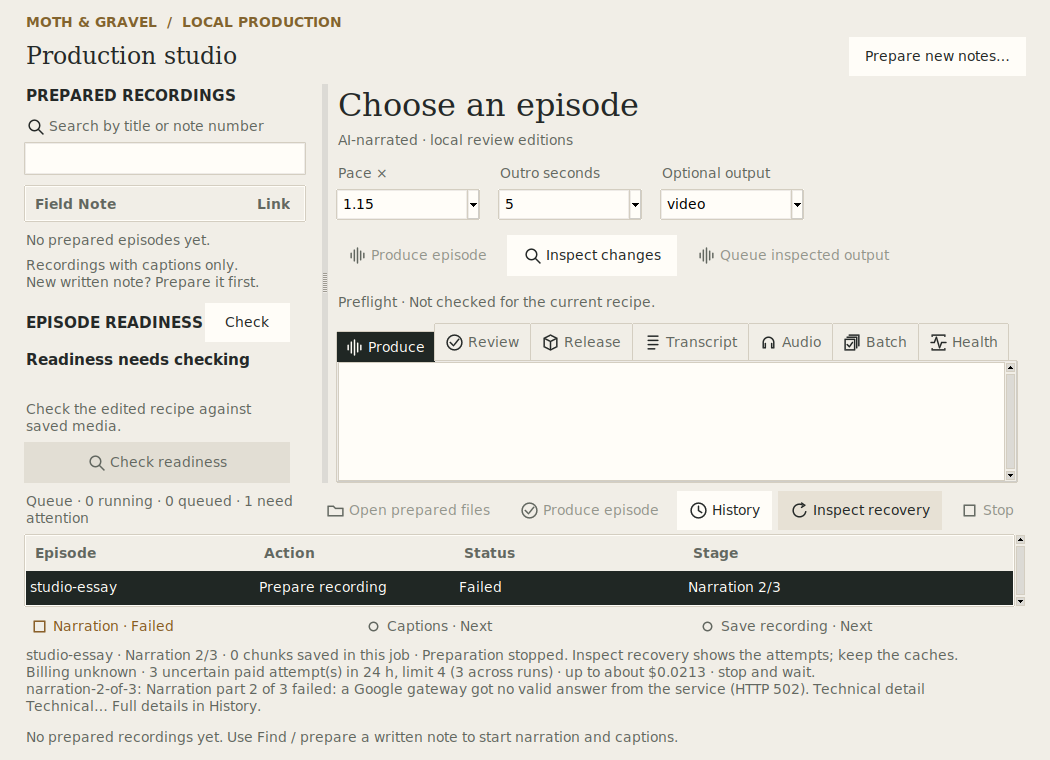
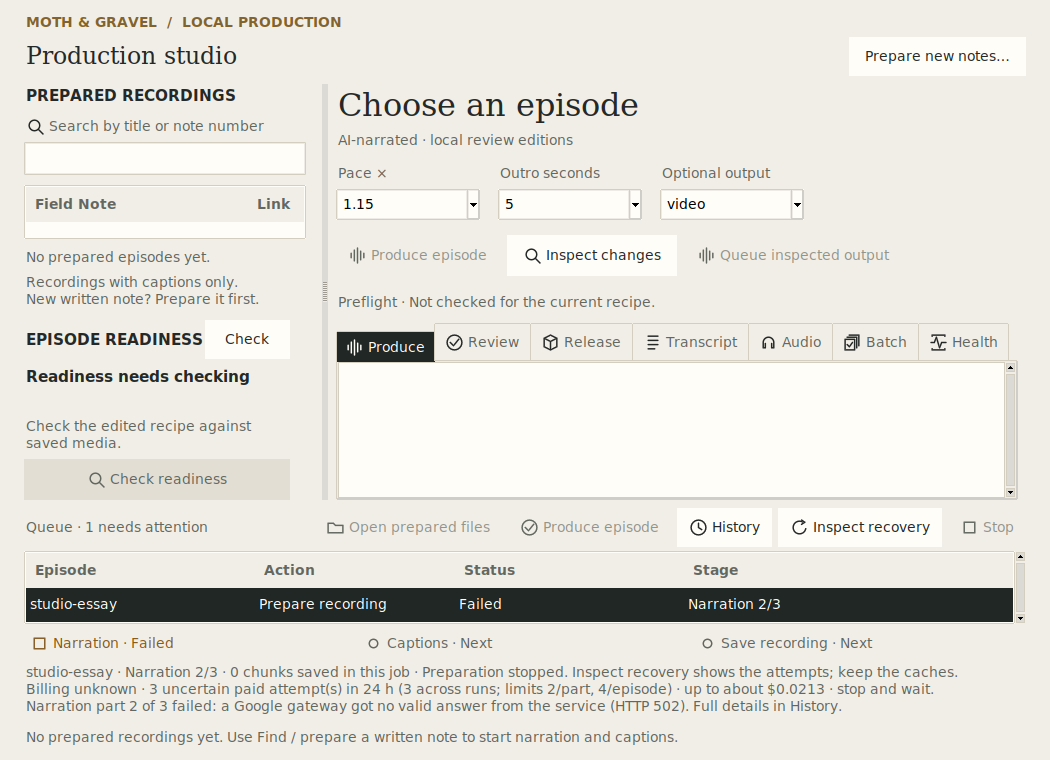
Re-shoot before/after in the same fixture state (main 80eccf9 vs eb062a9)
Both trees ran studio-incident-guard/same-state/capture.py: note 104 fails
chunk 2 with a mocked HTTP 502 twice (the second an authorized recovery), then
the main window and the Prepare window are captured. No Cloud calls.

Changed region(s): [[0.0, 0.3026, 0.9752, 0.9382]]

diff --git a/studio-incident-guard/same-state/capture.py b/studio-incident-guard/same-state/capture.py
@@ -1,0 +1,109 @@
+"""Same fixture state on both trees: run from a checkout root with STUDIO_SCREENSHOT_DIR set.
+
+Mocked Cloud only: two narration chunks of note 104 fail with HTTP 502 across two runs
+(the second an explicitly authorized recovery), then the windows are captured.
+"""
+import io
+import json
+import os
+import sys
+import unittest
+from pathlib import Path
+from unittest.mock import patch
+from urllib.error import HTTPError
+
+sys.path.insert(0, os.getcwd())
+
+from field_notes_studio.preparation_service import PreparationService  # noqa: E402
+from field_notes_studio.worker import execute  # noqa: E402
+from tests.studio import test_preparation_app as app_fixtures  # noqa: E402
+from tests.studio import test_preparation_execution as media_fixtures  # noqa: E402
+from tests.studio import test_ui as ui_fixtures  # noqa: E402
+
+
+def gateway():
+    body = b'{"error": {"status": "UNAVAILABLE", "message": "upstream connect error"}}'
+    return HTTPError("https://service.invalid", 502, "Bad Gateway", {}, io.BytesIO(body))
+
+
+def grab(window, name, geometry):
+    import subprocess
+
+    window.geometry(geometry + "+0+0")
+    window.lift()
+    for _ in range(20):
+        window.update()
+    out = Path(os.environ["STUDIO_SCREENSHOT_DIR"])
+    out.mkdir(parents=True, exist_ok=True)
+    subprocess.run(
+        ["ffmpeg", "-v", "error", "-f", "x11grab", "-draw_mouse", "0",
+         "-video_size", f"{window.winfo_width()}x{window.winfo_height()}",
+         "-i", f"{os.environ['DISPLAY']}+{window.winfo_rootx()},{window.winfo_rooty()}",
+         "-frames:v", "1", "-update", "1", "-y", str(out / f"{name}.png")],
+        check=True, timeout=15,
+    )
+
+
+class Capture(unittest.TestCase):
+    def test_readiness_card(self):
+        h = ui_fixtures.UITests()
+        h.setUp()
+        self.addCleanup(h.doCleanups)
+        h.root.geometry("1050x760+0+0")
+        h.app.controller.episode_controls.refresh()
+        card = h.app.readiness
+        h.wait(lambda: card.snapshot is not None)
+        h.capture("1-readiness-card")
+        if hasattr(card, "details_button"):
+            card.details_button.invoke()
+            h.capture("1b-readiness-card-details")
+
+    def test_failure_row_and_recovery(self):
+        media_fixtures.PreparationExecutionTests.setUpClass()
+        h = app_fixtures.PreparationApplicationTests()
+        h.setUp()
+        self.addCleanup(h.doCleanups)
+        f, app = h.fixture, h.app
+        f.text(
+            "audio/scripts/window.txt",
+            "\n\n".join(w + " " + "Hello world. " * 160 for w in ("One.", "Two.", "Three.")),
+        )
+        request = json.loads(f.adapter.inspect("104").request_json)
+        service = PreparationService(f.root)
+        f.repository.submit("studio-essay", "prepare", request)
+        with f.cloud() as calls:
+            calls[1].side_effect = [f.wav, gateway()]
+            execute(f.repository, f.pipeline, f.repository.claim())
+        with patch("field_notes_studio.preparation_service.launch_worker"):
+            identifier = service.submit(service.inspect("104"), True, recover_uncertain=True)
+        with f.cloud() as calls:
+            calls[1].side_effect = [gateway()]
+            execute(f.repository, f.pipeline, f.repository.claim())
+        app.preparation.close()
+        app.root.geometry("1050x760+0+0")
+        app.jobs.render(f.repository.jobs())
+        app.jobs.tree.selection_set(identifier)
+        app.controller.job_detail()
+        h.wait(lambda: "HTTP 502" in app.jobs.detail.cget("text"))
+        ui_fixtures.UITests.capture(h, "2-failure-row")
+        app.prepare_button.invoke()
+        h.wait(lambda: app.preparation.view.tree.exists("104"))
+        view = app.preparation.view
+        h.view = view
+        view.tree.selection_set("104")
+        app.root.update()
+        view.inspect_button.invoke()
+        h.wait(lambda: view.snapshot is not None)
+        view.authorization.invoke()
+        view.recovery_consent.invoke()
+        app.root.update()
+        grab(view.window, "3-recovery-before-override", "1050x760")
+        if getattr(view.snapshot, "spend_blocked", False):
+            view.spend_override.invoke()
+            view.spend_reason.set("Checked status page and billing report")
+        grab(view.window, "3-recovery", "1050x760")
+        grab(view.window, "3-recovery-minimum", "760x580")
+
+
+if __name__ == "__main__":
+    unittest.main(argv=[sys.argv[0], "-v"])
